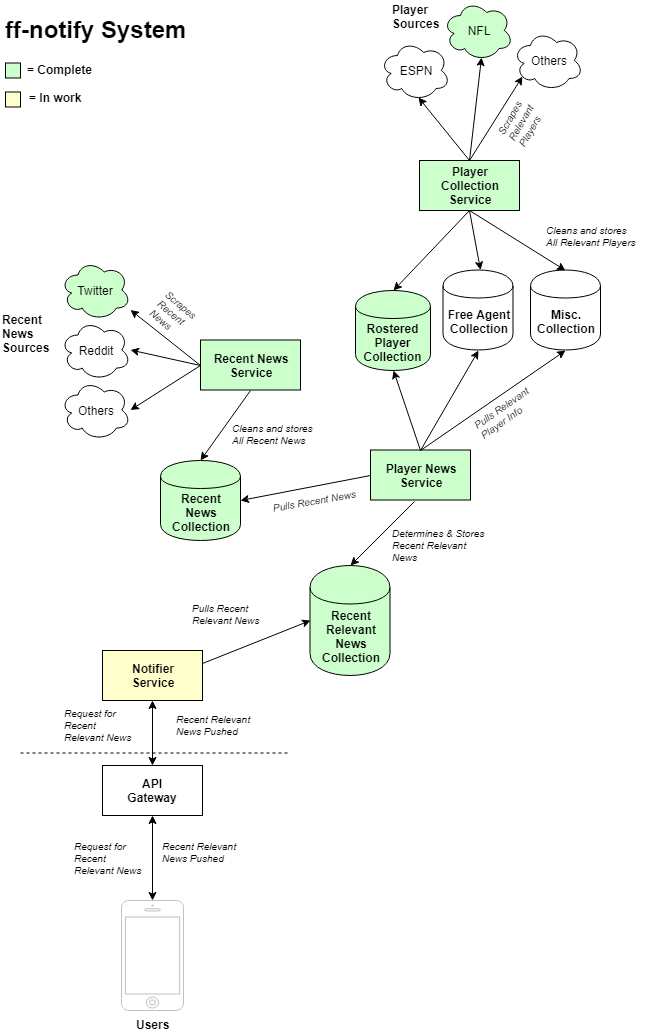
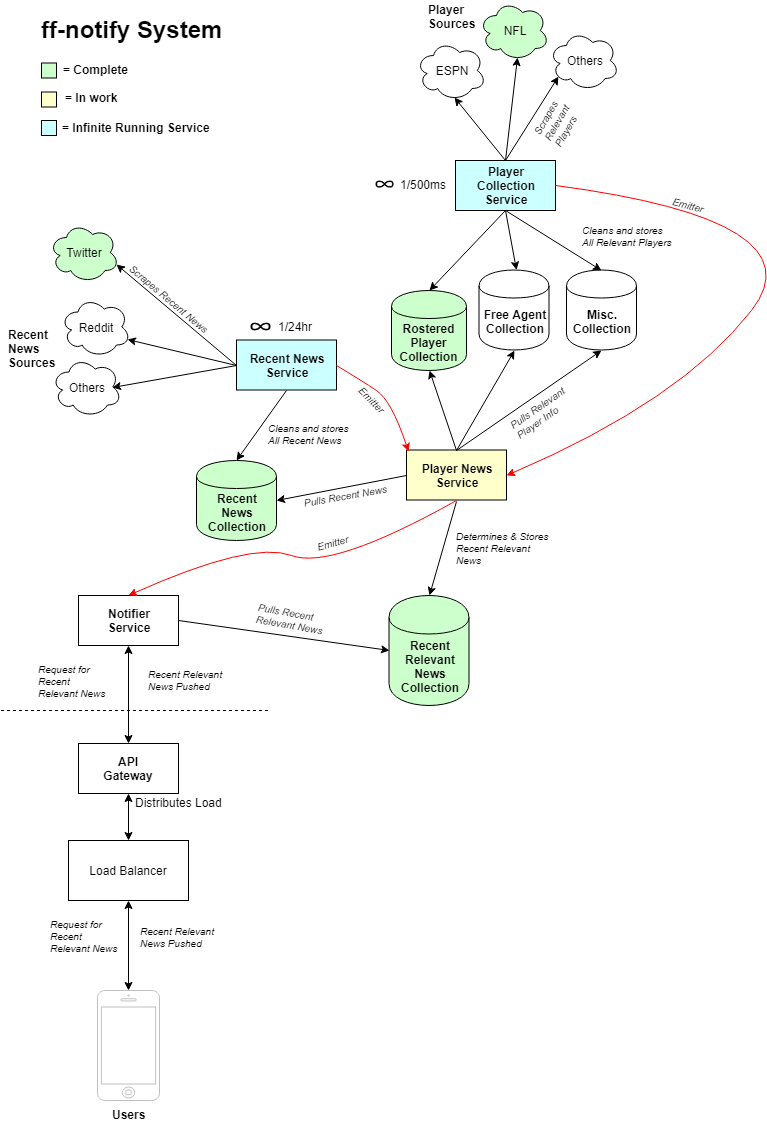
added Players model and schemas. added GET and POST for /players route. Refactored the way buildPlayerMap works - using objectl iterals with ES6 Maps. Cleaned up other things.

diff --git a/services/Player/index.js b/services/Player/index.js
@@ -1,5 +1,6 @@
 const cheerio = require('cheerio');
 const request = require('request-promise');
+const axios = require('axios');
 
 const TEAMS_NFL_COM = require('./teams.json');
 const util_timeout = require('../../util/timeout');
@@ -19,20 +20,35 @@ class PlayerCollectionService {
             this.totalTeamsScanned = 0;
             this.totalPlayersScanned = 0;
     
-            response = await this.fetchPlayers(TEAMS_NFL_COM);
-            
-            //console.log('response:', JSON.stringify(response, undefined, 2));
-            console.log('Player Collection Scan completed in', Date.now() - startTime + 'ms');
-            console.log('Total Teams Scanned:', this.totalTeamsScanned);
-            console.log('Total Players Scanned:', this.totalPlayersScanned);
-            console.log();
-            
-            runTimes--;
-    
-            await util_timeout(delay);        
+            try {
+                response = await this.fetchPlayers(TEAMS_NFL_COM);
+
+                //console.log('response:', JSON.stringify(response, undefined, 2));
+                console.log('Player Collection Scan completed in', Date.now() - startTime + 'ms');
+                console.log('Total Teams Scanned:', this.totalTeamsScanned);
+                console.log('Total Players Scanned:', this.totalPlayersScanned);
+                console.log();
+                
+                runTimes--;
+        
+                await util_timeout(delay); 
+            } catch(e) {
+                // Prob wanna throw something so api can catch it
+                console.log('Error from within PlayerCollectionService run:', e);
+                return {};
+            }
         }
         
-        return this.buildPlayerMap(response);
+        const players = this.flattenPlayers(response);
+
+        try {
+            await axios.post('http://localhost:5000/players', players);
+            return players;
+        } catch(e) {
+            // Prob wanna throw something so api can catch it
+            console.log('Error in PlayerServices run:', e);
+            return {};
+        }
     }
 
     async fetchPlayers(TEAMS_NFL_COM) {
@@ -51,47 +67,62 @@ class PlayerCollectionService {
             );
         });
         
-        return await Promise.all(promises).then(response => response);
+        try {
+            const response = await Promise.all(promises).then(response => response);
+            return response;
+        } catch(e) {
+            // Prob wanna throw something so api can catch it
+            console.log('Error in fetchPlayers:', e);
+            return {};
+        }
     }
 
     async fetchNFLPlayer(team) {
         const ROUTE = 'team/players-roster/';
         const URL = `https://${team.url}/${ROUTE}`;
-        const $ = await request(URL).then(response => cheerio.load(response)).catch(err => err);
-        const $players =  $('table tbody tr').find('.sorter-lastname');
-        const players = [];
-    
-        $players.each((i, elem) => {
-            let playerName = $(elem).find('div span a').text();
-            let name_split = playerName.split(' ');
-            let maybeSuffix = name_split[name_split.length - 1];
-    
-            if(!util_suffixes.has(maybeSuffix)) {
-                maybeSuffix = '';
-            } else {
-                name_split.pop();
-                playerName = name_split.join(' ');
-            }
-    
-            const player = {
-                name: playerName,
-                suffix: maybeSuffix,
-                college: $(elem).next().next().next().next().next().next().next().text(),
-                teamId: team.id,
-                position: $(elem).next().next().text(),
-                number: $(elem).next().text(),
-            };
-    
-            this.totalPlayersScanned++;
 
-            players.push(player);
-        });
+        try {
+            const $ = await request(URL).then(response => cheerio.load(response)).catch(err => err);
+            const $players =  $('table tbody tr').find('.sorter-lastname');
+            const players = [];
         
-        return players;
+            $players.each((i, elem) => {
+                let playerName = $(elem).find('div span a').text();
+                let name_split = playerName.split(' ');
+                let maybeSuffix = name_split[name_split.length - 1];
+        
+                if(!util_suffixes.has(maybeSuffix)) {
+                    maybeSuffix = '';
+                } else {
+                    name_split.pop();
+                    playerName = name_split.join(' ');
+                }
+        
+                const player = {
+                    name: playerName,
+                    suffix: maybeSuffix,
+                    college: $(elem).next().next().next().next().next().next().next().text(),
+                    teamId: team.id,
+                    position: $(elem).next().next().text(),
+                    number: $(elem).next().text(),
+                };
+        
+                this.totalPlayersScanned++;
+
+                players.push(player);
+            });
+            
+            return players;
+        } catch(e) {
+            // Prob wanna throw something so api can catch it
+            console.log('Error in fetchNFLPlayer:', e);
+            return {};
+        }
     }
 
-    buildPlayerMap(teams) {
+    flattenPlayers(teams) {
         const playerMap = new Map();
+        const flattenedPlayers = [];
     
         teams.forEach(players => {
             players.forEach(player => {
@@ -102,8 +133,12 @@ class PlayerCollectionService {
                 }
             });
         });
-        
-        return playerMap;
+
+        playerMap.forEach(players => {
+            players.forEach(player => flattenedPlayers.push(player));
+        });
+
+        return flattenedPlayers;
     }
 }
 

diff --git a/api/index.js b/api/index.js
@@ -8,8 +8,9 @@ mongoose.connection.on('err', console.error.bind(console, 'DB connection error:'
 mongoose.connection.once('open', () => console.log('Connected to DB'));
 
 const RecentNews = require('../db/models/RecentNews');
+const Players = require('../db/models/Players');
 
-app.use(bodyParser.json());
+app.use(bodyParser.json({ limit: '999kb' }));
 
 app.get('/recentNews', (req, res) => {
     RecentNews.find((err, response) => {
@@ -49,12 +50,28 @@ app.post('/recentNews', async (req, res) => {
     }
 
     res.sendStatus(200);
+});
 
-    // const recentNews = new RecentNews(req.body);
-    // recentNews.save((err, data) => {
-    //     console.log('Saved:', data);
-    //     res.sendStatus(200);
-    // });
+app.get('/players', async (req, res) => {
+    try {
+        const response = await Players.find();
+        res.send(response);
+    } catch(e) {
+        console.log('Error from GET /players:', e);
+        res.sendStatus(500);
+    }
+});
+
+app.post('/players', async (req, res) => {
+    const players = new Players({ players: req.body });
+
+    try {
+        await players.save();
+        res.sendStatus(200);
+    } catch(e) {
+        console.log('Error from POST /players:', e);
+        res.sendStatus(500);
+    }
 });
 
 app.listen(PORT, () => console.log('API Running on port', PORT));

diff --git a/services/RecentPlayerNews/index.js b/services/RecentPlayerNews/index.js
@@ -4,7 +4,9 @@ const Logger = require('../../util/logger');
 function RecentPlayerNews(players, news) {
     const startTime = Logger.time();
     const recentRelevantNewsCollection = [];
-    const playerNames = [...players.keys()];
+    const playerNames = [];
+
+    for(let playerName in playerNames) playerNames.push(playerName)
 
     news.forEach(source => {
         source.tweets.forEach(tweet => {

diff --git a/db/schemas/playerSchema.js b/db/schemas/playerSchema.js
@@ -1,0 +1,18 @@
+const { Schema } = require('mongoose');
+
+const PlayerSchema = new Schema({
+    name: String,
+    suffux: String,
+    college: String,
+    teamId: Number,
+    position: String,
+    number: String
+});
+
+const PlayersSchema = new Schema({
+    players: {
+        type: [PlayerSchema]
+    }
+});
+
+module.exports = PlayersSchema;

diff --git a/db/models/Players.js b/db/models/Players.js
@@ -1,0 +1,5 @@
+const { model } = require('mongoose');
+const PlayersSchema = require('../schemas/playerSchema');
+const Players = model('Players', PlayersSchema);
+
+module.exports = Players;

diff --git a/index.js b/index.js
@@ -37,7 +37,7 @@ const options = {
 
 
 
-run(true, 0, options);
+run(1, 0, options);
 
 //const fs = require('fs');
 //const { promisify } = require('util');
